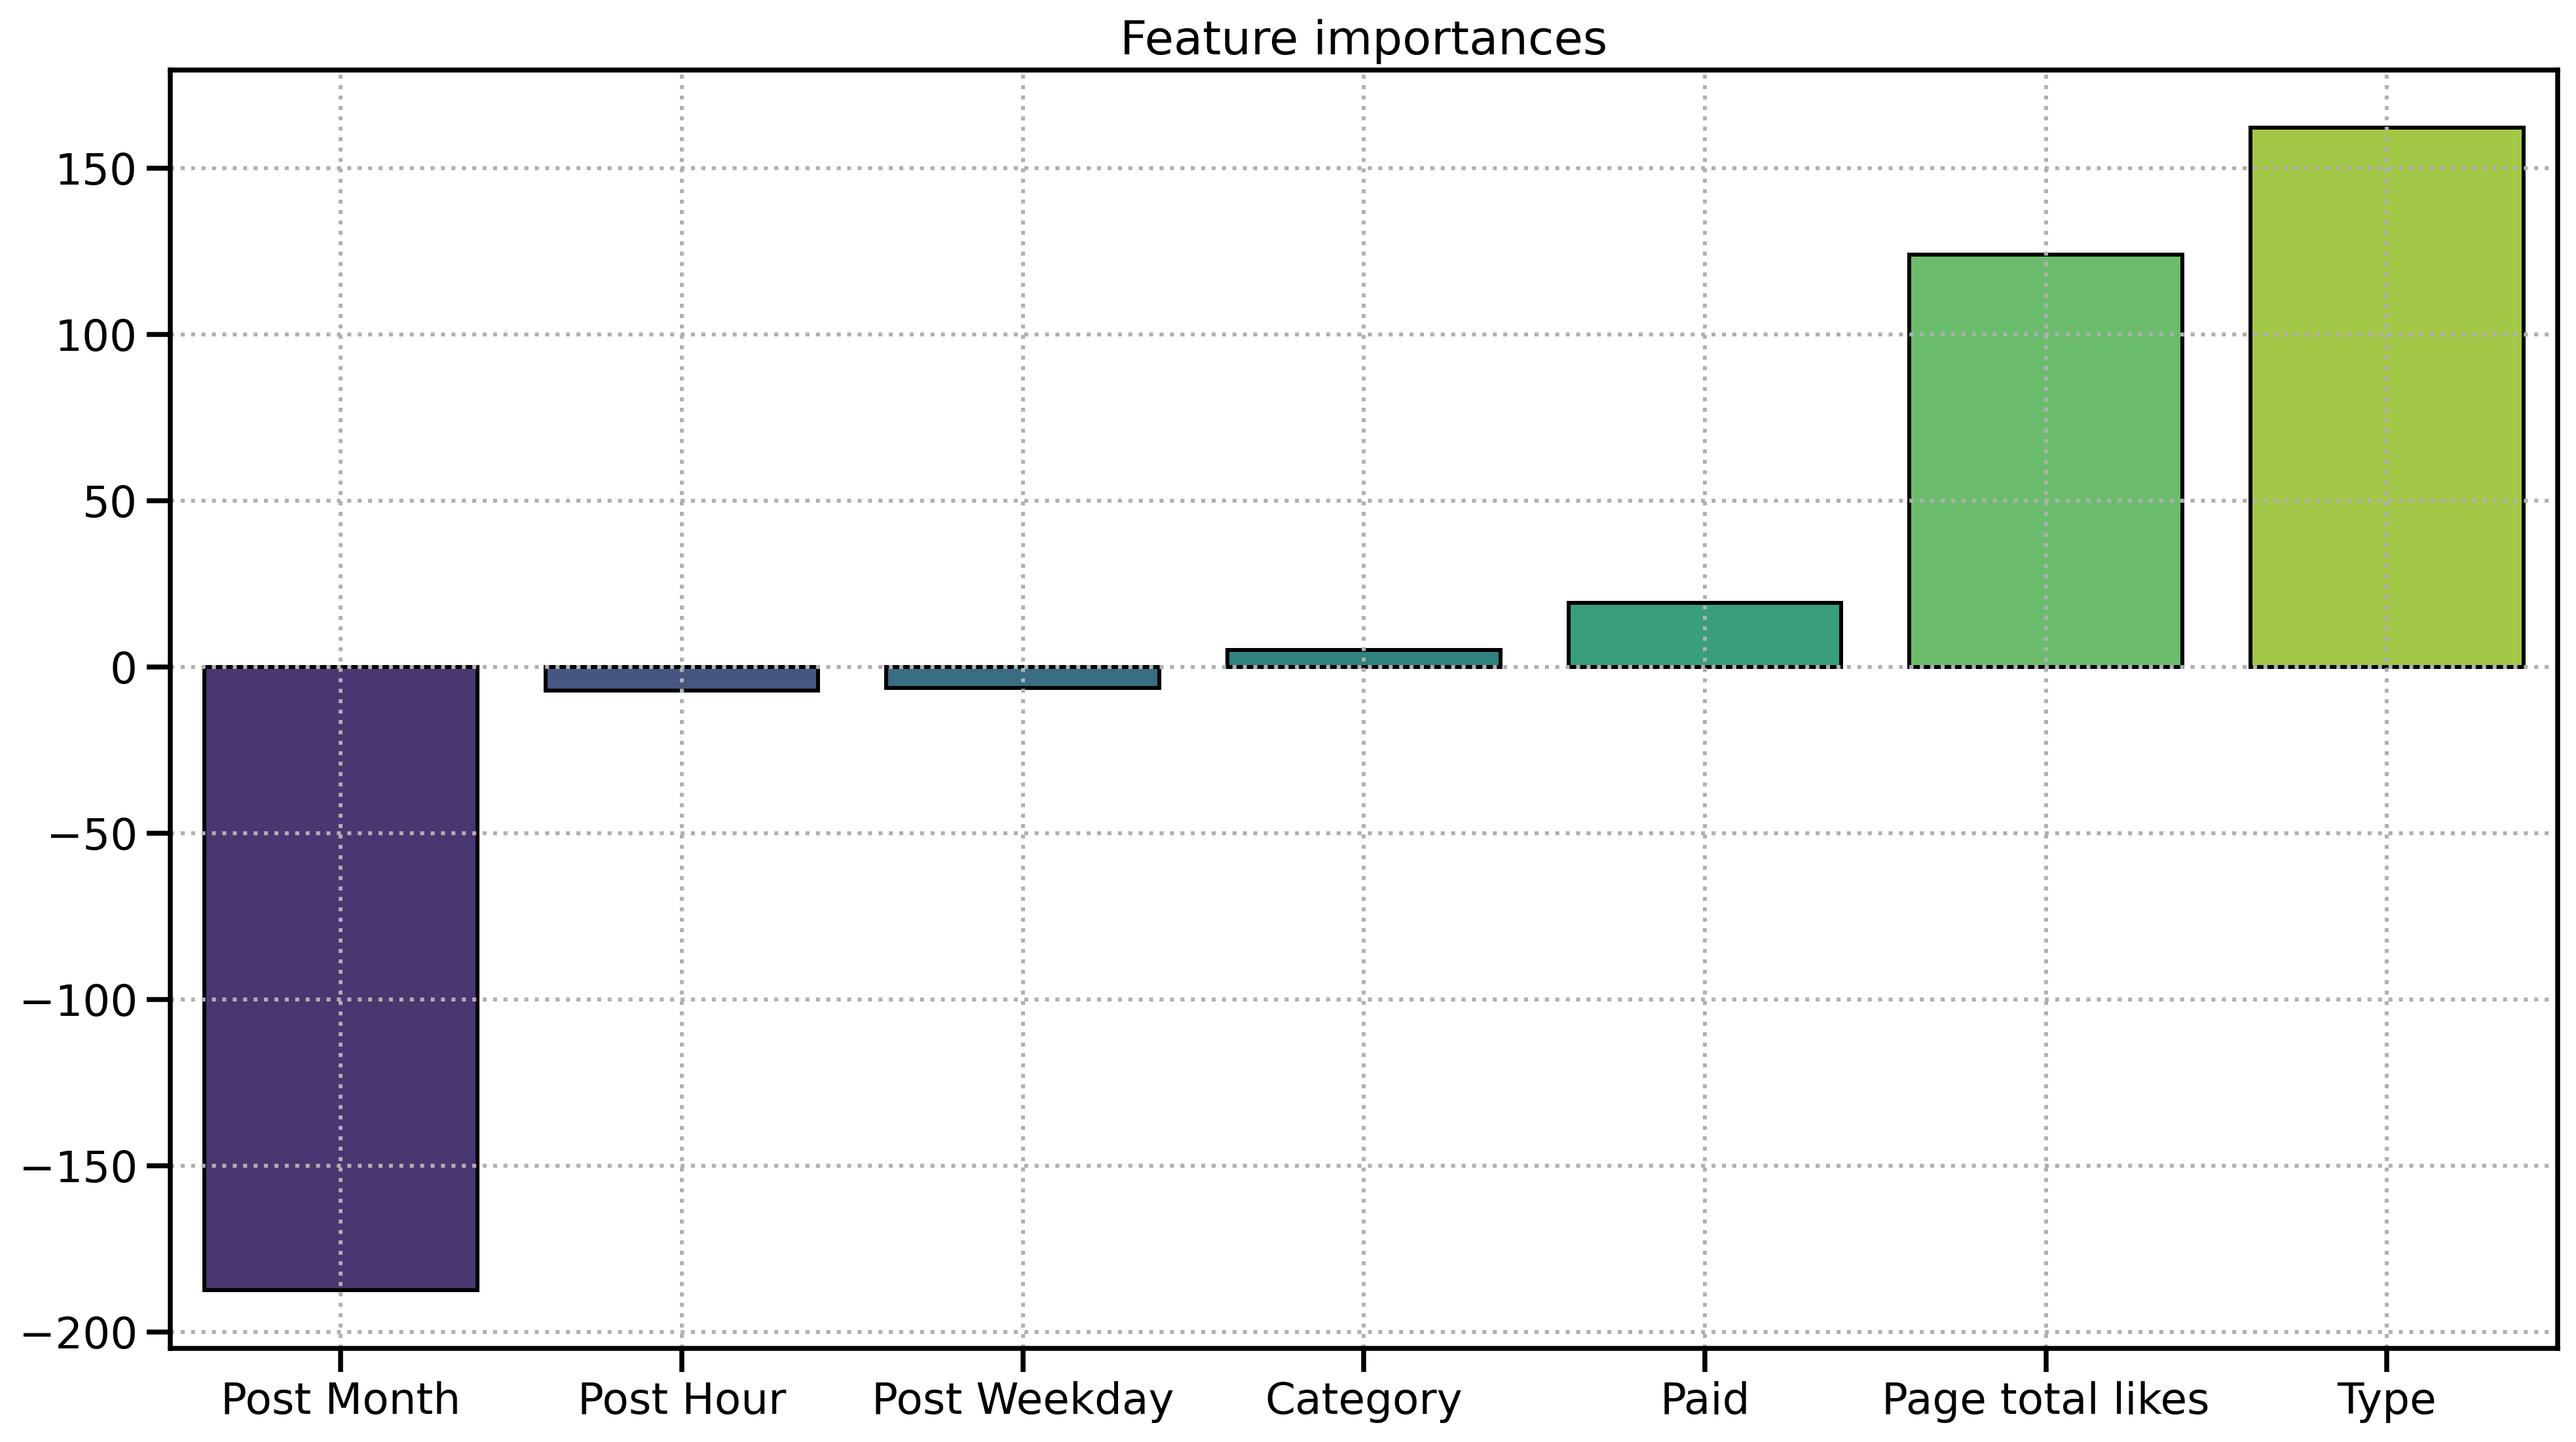
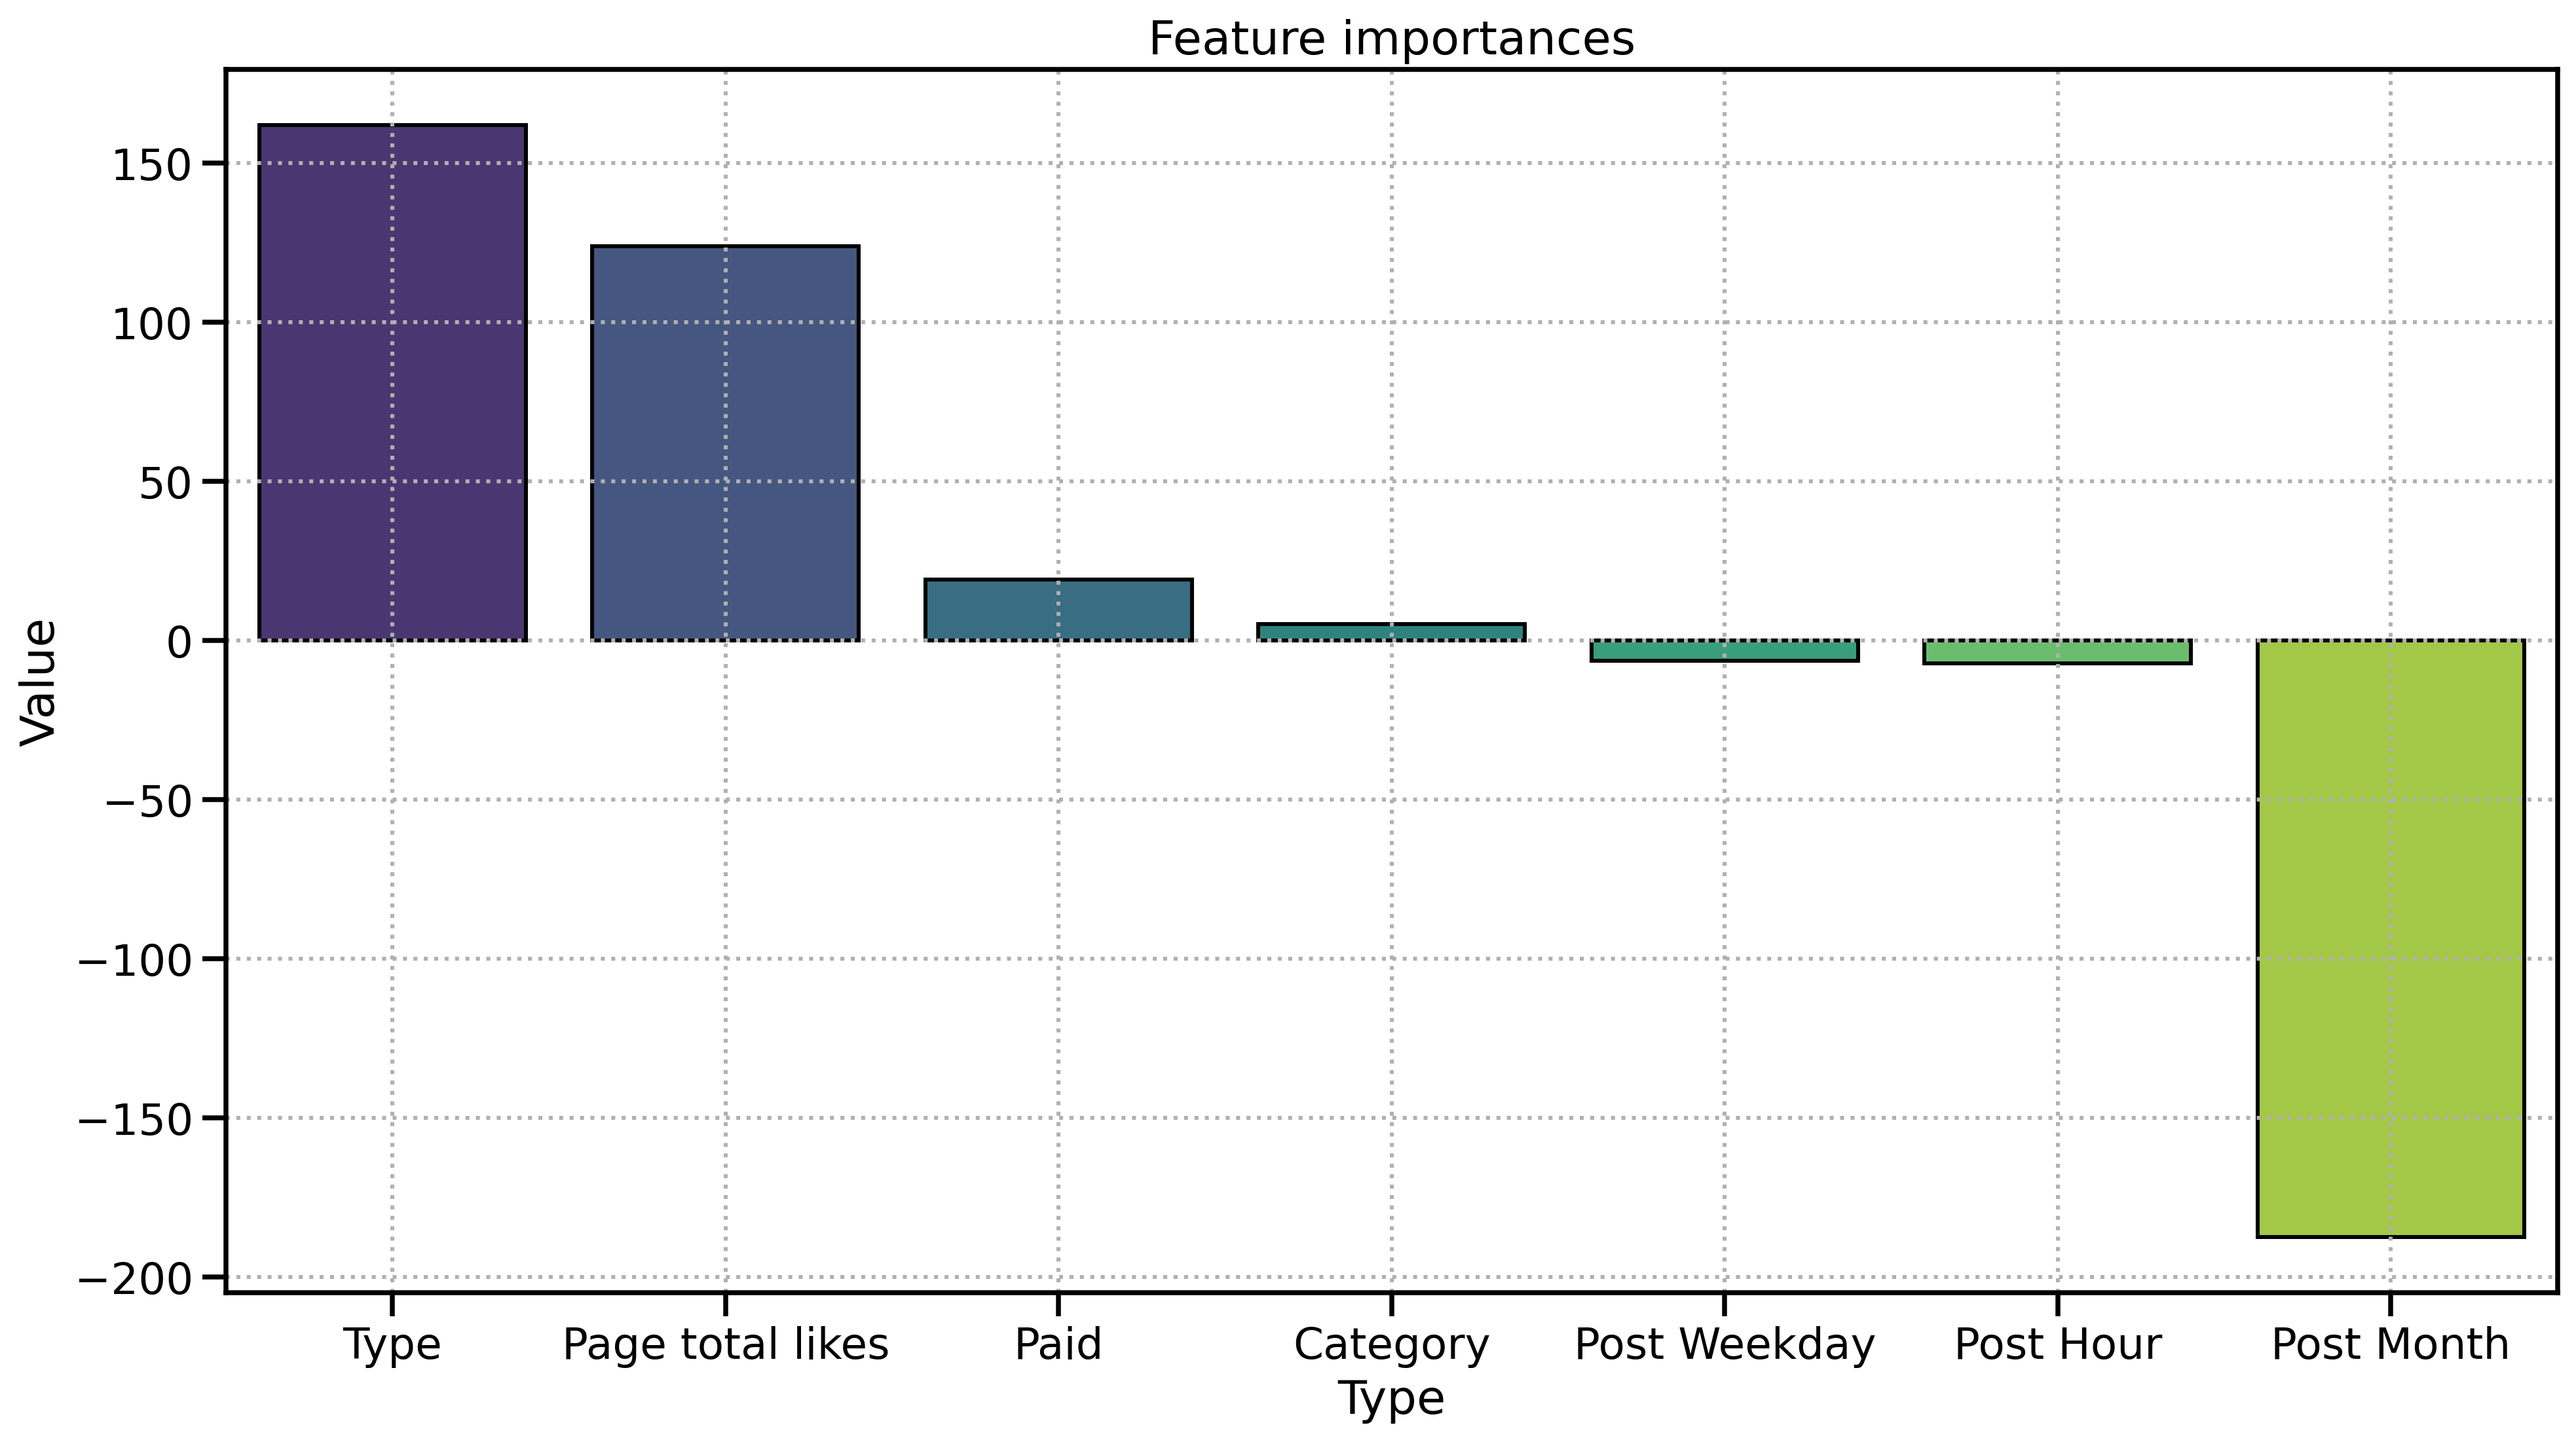
Added labels in plot

diff --git a/plots_SVR.py b/plots_SVR.py
@@ -42,7 +42,7 @@ def feature_importances_plot(model, col, filename):
     y = fb_df[col].values
     model.fit(X, y)
     sorted_features_df = pd.Series(model.coef_[0], index=X.columns)
-    sorted_features_df.sort_values(inplace=True)
+    sorted_features_df.sort_values(inplace=True, ascending=False)
     sorted_features_df = sorted_features_df.reset_index()
     sorted_features_df.rename(columns={'index': 'feature_importance', 0: 'feature_importance_value'}, inplace=True)
     _, axes = plt.subplots(figsize=(14, 8))
@@ -50,8 +50,8 @@ def feature_importances_plot(model, col, filename):
                 y=sorted_features_df['feature_importance_value'],
                 palette='viridis', edgecolor='k', ax=axes)
     axes.set_title('Feature importances', fontsize=18)
-    axes.set_xlabel('')
-    axes.set_ylabel('')
+    axes.set_xlabel('Type')
+    axes.set_ylabel('Value')
     plt.tight_layout()
     plt.grid(True, linestyle=':')
     plt.savefig('plots/'+filename, dpi=288, bbox_inches='tight')
